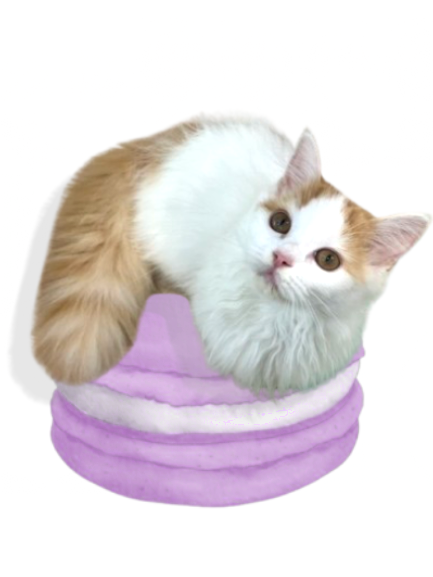
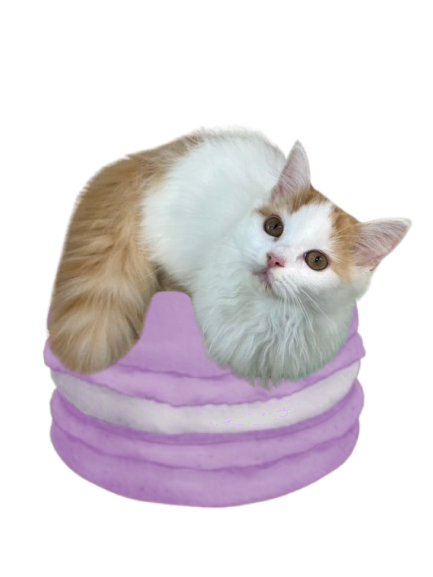
猫スライドショー

diff --git a/src/components/MacaronCatSlideShow.tsx b/src/components/MacaronCatSlideShow.tsx
@@ -4,33 +4,50 @@ import React from 'react'
 import macaronData from '../data/macaron.json'
 
 export const MacaronCatSlideShow: React.FC = () => {
-  const { images, animationDuration } = macaronData
+  const { images } = macaronData
 
   return (
-    <div className="relative overflow-hidden mt-10 w-full h-[200px]">
-      <div
-        className="flex w-full h-full animate-slide"
-        style={{
-          animationDuration: `${animationDuration}s`,
-        }}
-      >
-        {/* 繰り返す画像リスト */}
-        {[...images, ...images, ...images].map((image, index) => (
-          <img
-            key={index}
-            src={image}
-            alt={`Macaron Cat ${index + 1}`}
-            className="flex-shrink-0 mx-12 object-contain"
-            style={{
-              // PC時に画像サイズを制限するためのスタイル
-              width: `${100 / images.length}%`, // デフォルトの幅
-              height: '100%', // デフォルトの高さ
-              maxWidth: '${100 / images.length}%', // 最大幅を700pxに制限 (PC向け)
-              maxHeight: '400px', // 最大高さを500pxに制限 (PC向け)
-            }}
-          />
+    <div className="relative overflow-hidden w-full mt-10 h-[300px]">
+      <div className="slide-track">
+        {/* 画像リストを2倍にして無限ループを実現 */}
+        {[...images, ...images].map((image, index) => (
+          <div className="slide" key={index}>
+            <img
+              src={image}
+              alt={`Macaron Cat ${index + 1}`}
+              className="object-contain"
+              style={{
+                maxWidth: '400px',
+                maxHeight: '300px',
+              }}
+            />
+          </div>
         ))}
       </div>
+
+      {/* CSSスタイル */}
+      <style jsx>{`
+        .slide-track {
+          display: flex;
+          animation: scroll 60s linear infinite;
+          width: calc(400px * ${images.length * 2});
+        }
+
+        .slide {
+          flex: 0 0 auto; /* 各画像が均等に表示されるように */
+          width: 400px;
+          margin-right: 10px; /* 画像間のスペース */
+        }
+
+        @keyframes scroll {
+          0% {
+            transform: translateX(0);
+          }
+          100% {
+            transform: translateX(calc(-400px * ${images.length}));
+          }
+        }
+      `}</style>
     </div>
   )
 }
